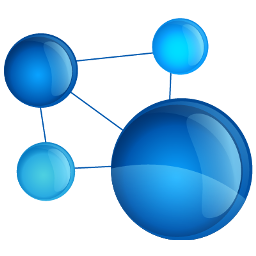
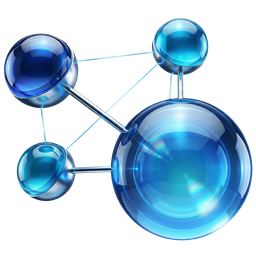
Research Core Branch Merge
Research Core Branch Merge

Pull request: Research Core Branch Merge

diff --git a/src/qt/curecoingui.cpp b/src/qt/curecoingui.cpp
@@ -1064,18 +1064,37 @@ void curecoinGUI::registerResearchCore()
     // 1. Show the built-in Qt text input pop-up
     bool ok;
     QString text = QInputDialog::getText(this, tr("Research Core Registration"),
-                                         tr("Enter your desired Username:"), QLineEdit::Normal,
+                                         tr("Enter your desired Username (max 64 chars):"), QLineEdit::Normal,
                                          "", &ok);
                                          
     // 2. If the user clicked "OK" and didn't leave it blank...
     if (ok && !text.isEmpty()) {
         
+        // --- NEW: THE WALLET UNLOCK CHECK ---
+        // Make sure the walletModel is actually loaded
+        if (!walletModel) {
+            QMessageBox::critical(this, tr("Error"), tr("Wallet model is not initialized."));
+            return;
+        }
+
+        // This line checks if the wallet is locked. 
+        // If it IS locked, it automatically spawns the Password Pop-up!
+        WalletModel::UnlockContext ctx(walletModel->requestUnlock());
+        
+        // If they click 'Cancel' on the password pop-up, or get it wrong, we abort.
+        if (!ctx.isValid()) {
+            QMessageBox::warning(this, tr("Registration Canceled"), 
+                                 tr("Wallet unlock failed or was canceled."));
+            return; 
+        }
+        // ------------------------------------
+
         // Convert the Qt string to a standard C++ string
         std::string username = text.toStdString();
         std::string strError;
         
-        // 3. Call the backend engine function we wrote earlier!
-        // (pwalletMain is the global pointer to the active wallet)
+        // 3. Call the backend engine function!
+        // (Because we passed the UnlockContext above, pwalletMain is safely unlocked here)
         std::string txid = pwalletMain->SendRegistrationTx(username, strError);
         
         // 4. Show the result to the user
@@ -1086,5 +1105,7 @@ void curecoinGUI::registerResearchCore()
             QMessageBox::critical(this, tr("Error"), 
                 tr("Registration failed:\n") + QString::fromStdString(strError));
         }
+        
+        // The moment this function ends, 'ctx' is destroyed, and the wallet instantly re-locks!
     }
 }

diff --git a/src/clientversion.h b/src/clientversion.h
@@ -9,7 +9,7 @@
 #define CLIENT_VERSION_MAJOR       2
 #define CLIENT_VERSION_MINOR       5
 #define CLIENT_VERSION_REVISION    1
-#define CLIENT_VERSION_BUILD       2
+#define CLIENT_VERSION_BUILD       5
 
 
 // Converts the parameter X to a string after macro replacement on X has been performed.

diff --git a/src/version.h b/src/version.h
@@ -47,6 +47,6 @@ static const int MEMPOOL_GD_VERSION = 60002;
 #define DISPLAY_VERSION_MAJOR       2
 #define DISPLAY_VERSION_MINOR       5
 #define DISPLAY_VERSION_REVISION    1
-#define DISPLAY_VERSION_BUILD       2
+#define DISPLAY_VERSION_BUILD       5
 
 #endif